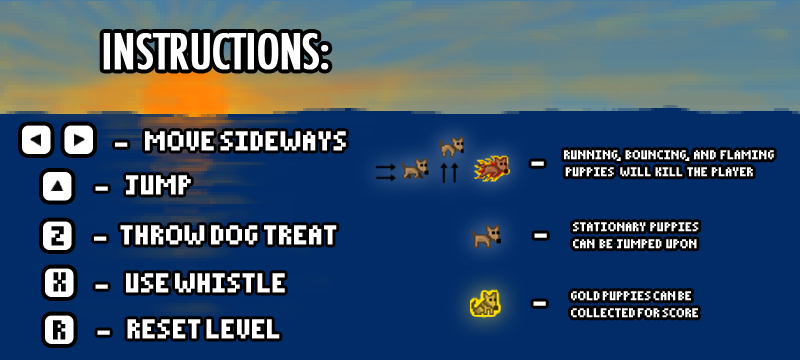
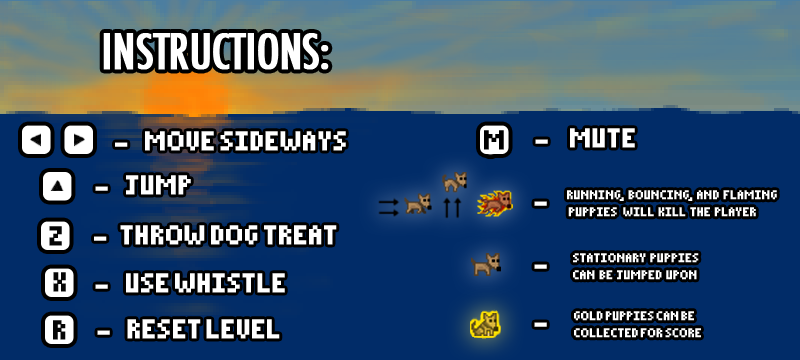
about finished

Changed region(s): [[0.4688, 0.3361, 1.0, 0.9778], [0.0312, 0.6111, 0.0938, 0.7028]]

diff --git a/player.py b/player.py
@@ -125,18 +125,20 @@ class Player(Sprite):
         self.splatsound = str(self.splats[(randint(0, 3))])
         self.hitsound = load_sfx(self.splatsound)
 
-    def jump(self):
+    def jump(self, mute):
         if not self.off_ground:
             self.off_ground = True
             self.vy = 280 #jump speed
             self.jumpsound = load_sfx("jump")
-            self.jumpsound.play()
+            if mute == False:
+                self.jumpsound.play()
 
-    def whistle(self):
+    def whistle(self, mute):
         if self.whistlecount < self.level.wlimit and self.level.wlimit > 0:
             soundwave = Wave(self.bounds, self.level, self.facing)
             self.whistlesound = load_sfx("whistle")
-            self.whistlesound.play()
+            if mute == False:
+                self.whistlesound.play()
             if self.facing == "right":
                 soundwave.rect.left = self.rect.right
                 soundwave.rect.midleft = self.rect.midright
@@ -146,11 +148,12 @@ class Player(Sprite):
             self.waves.add(soundwave)
             self.whistlecount += 1
 
-    def throw(self):
+    def throw(self, mute):
         if self.treatcount < self.level.tlimit and self.level.tlimit > 0:
             treat = Treat(self.bounds, self.level, self.facing)
             self.throwsound = load_sfx("throw")
-            self.throwsound.play()
+            if mute == False:
+                self.throwsound.play()
             if self.facing == "right":
                 treat.rect.left = self.rect.right
                 treat.rect.midleft = self.rect.midright
@@ -199,7 +202,8 @@ class Player(Sprite):
         self.__init__(self.level.spawn, self.level, self.bounds)
         
        
-    def update(self, dt):
+    def update(self, dt, mute):
+        self.mute = mute
         #animation
         self.anim.update(dt)
         self.image = self.anim.get_current_frame()
@@ -246,7 +250,8 @@ class Player(Sprite):
                 if sprite.state == 0 or sprite.state == 3:
                     if not self.has_played:
                         self.bark = load_sfx("bark")
-                        self.bark.play()
+                        if self.mute == False:
+                            self.bark.play()
                         self.has_played = True
                 
                 self.vy = 0
@@ -273,7 +278,8 @@ class Player(Sprite):
         #collide doors
         for sprite in self.touches(self.level.door):
             self.endsound = load_sfx("endlevel")
-            self.endsound.play()
+            if self.mute == False:
+                self.endsound.play()
             self.endlevel()
 
         #fall off bottom
@@ -295,8 +301,9 @@ class Player(Sprite):
                 #killed by puppy
                 if RegPuppy.state == 1 or RegPuppy.state == 2 or RegPuppy.state == 4:
                     if not self.has_splat:
-                        self.hitsound.play()
-                        self.fallingsound.play()
+                        if self.mute == False:
+                            self.hitsound.play()
+                            self.fallingsound.play()
                         self.has_splat = True
                     self.vx = 0
                     self.vy = 0
@@ -305,7 +312,8 @@ class Player(Sprite):
                 #collect gold puppy
                 elif RegPuppy.state == 5:
                     self.goldsound = load_sfx("collect")
-                    self.goldsound.play()
+                    if self.mute == False:
+                        self.goldsound.play()
                     RegPuppy.kill()
                     self.scorenum += 1
                     self.level.score = self.scorenum

diff --git a/main.py b/main.py
@@ -34,6 +34,8 @@ def main():
     lvl = lvls[0]  #starting level
 
     in_menu = True
+    mute = False
+
     player = Player(lvl.spawn, lvl, bounds)
     player_grp = GroupSingle(player) #spritegroup for player
     #game loop
@@ -54,6 +56,7 @@ def main():
                 in_menu = False
             if lvl.newlvlnum > 0:
                 in_menu = False
+                mute = lvl.mute
                 level = lvl.newlvlnum
                 lvl = lvls[lvl.newlvlnum]
                 if lvl.state == 1:
@@ -67,6 +70,7 @@ def main():
                     file_out.write(level)  #temp
                     file_out.close()   #temp
 
+                """
                     if lvl.type == "jungle":
                         lvl.song = "jungle1"
                         play_song(lvl.song)
@@ -76,6 +80,7 @@ def main():
                     elif lvl.type == "lab":
                         lvl.song = "lab"
                         play_song(lvl.song)
+                  """
         # input
         for event in pygame.event.get():
             keystate = pygame.key.get_pressed()
@@ -86,18 +91,26 @@ def main():
         
             if lvl.state == 1 and player.dying == False:
                 if event.type == KEYDOWN and event.key == K_UP:
-                    player.jump()
+                    player.jump(mute)
                 elif event.type == KEYDOWN and event.key == K_r:  #reset level
                     player.reset()
                 elif event.type == KEYDOWN and event.key == K_x: #whistle
-                    player.whistle()
+                    player.whistle(mute)
                 elif event.type == KEYDOWN and event.key == K_z: #throw
-                    player.throw()
+                    player.throw(mute)
 
-            elif lvl.state == 0 or lvl.state == 3:
+            if lvl.state == 0 or lvl.state == 1 or lvl.state == 2 or lvl.state == 3 or lvl.state == "last":
+                if event.type == KEYDOWN and event.key == K_m: #mute
+                    if mute == False:
+                        mute = True
+                    elif mute == True: #unmute
+                        mute = False
+
+            if lvl.state == 0 or lvl.state == 3:
                 if event.type == KEYDOWN and event.key == K_SPACE:
                     player.endlevel()
                     play_song(lvl.song)
+
             if lvl.state != "menu" and lvl.state != "last":  #temporary: for skipping levels
                 if event.type == KEYDOWN and event.key == K_k:
                     player.endlevel()
@@ -110,11 +123,15 @@ def main():
         lvl = lvls[lvlnum]
         player.level = lvl
 
+        if mute == True:
+            pygame.mixer.music.set_volume(0.0)
+        elif mute == False:
+            pygame.mixer.music.set_volume(1.0)
+
         #update
       #  dt = clock.tick(30)
         if lvl.state == 1:
             pass
-      #      lvl.draw_hud(screen, player)
         else:
             lvl.draw(screen, dt)
         if lvl.state == "menu":
@@ -122,7 +139,7 @@ def main():
             lvl.draw_titles(screen, dt)
 
         if lvl.state == 1:
-            player.update(dt)
+            player.update(dt, mute)
             player.waves.update()
             player.treats.update()
             lvl.pups.update(dt, bounds)

diff --git a/levels.py b/levels.py
@@ -230,6 +230,7 @@ class Menu(Between):   #finish later
         self.newlvlnum = 0
         self.inst = False
         self.done = False
+        self.mute = False
 
     def draw(self, screen):
         bounds = screen.get_rect()
@@ -283,6 +284,14 @@ class Menu(Between):   #finish later
                 self.done = True
             elif event.type == KEYDOWN and event.key == K_ESCAPE:
                 self.done = True
+            if event.type == KEYDOWN and event.key == K_m: #mute
+                if self.mute == False:
+                    self.mute = True
+                    pygame.mixer.music.pause()
+                elif self.mute == True:
+                    self.mute = False
+                    pygame.mixer.music.unpause()
+                    
             if event.type == MOUSEBUTTONDOWN:
                 if self.newgamerect.collidepoint(event.pos):
                     file_out = open("score.txt", "w") #reset score
